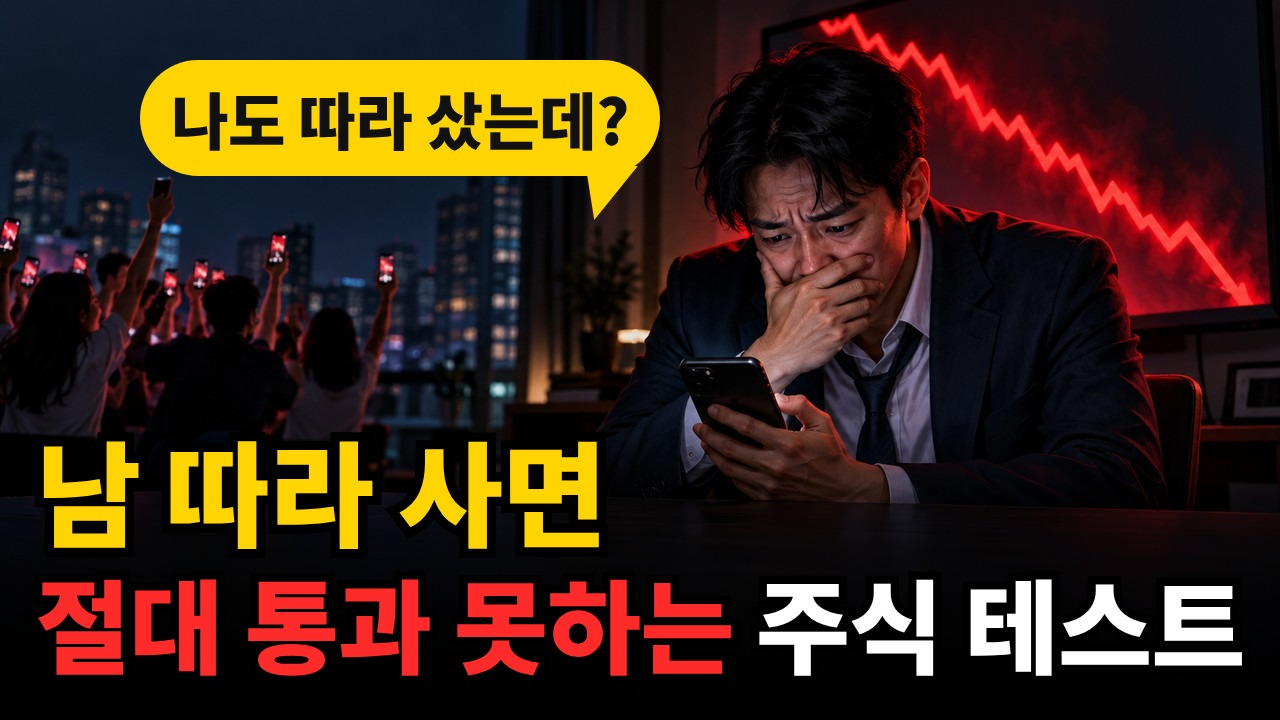
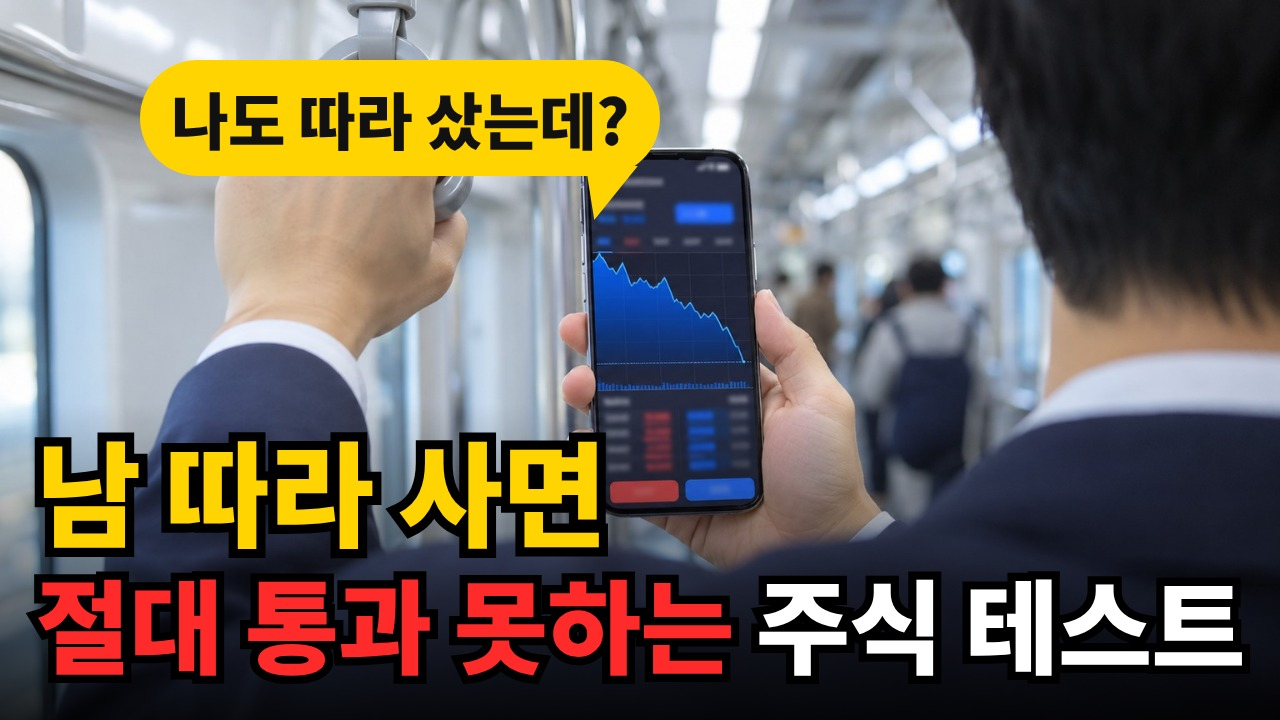
[stock] 1편 업로드 시트 — 설명란을 면세 편 꼴로 자세히 · 실험 썸네일 2·3 실사로 다시 그림
Claude-Session: https://claude.ai/code/session_01PYG2Mrbc8C4HDSnBDWyHf6

diff --git a/stock/source/ppalli-test-2026-11/shorts/upload.md b/stock/source/ppalli-test-2026-11/shorts/upload.md
@@ -1,6 +1,7 @@
 # ppalli-test-2026-11-shorts 업로드 시트 (주식 쇼츠)
 
-버전: v1.1 — 2026-11-05 — 완성 영상을 저장소에 둠 `stock/videos/ppalli-test-2026-11-shorts.mp4` (사용자 지시 "그냥 깃허브에 올려 1편 영상들") → 새 세션은 다시 렌더 없이 `python3 tools/youtube_upload.py stock ppalli-test-2026-11-shorts --video stock/videos/ppalli-test-2026-11-shorts.mp4 --publish-at 2026-11-12T08:00:00Z`.
+버전: v1.2 — 2026-11-05 — 설명란을 면세 쇼츠 꼴로 자세히 ('이 생각' 풀이 · 롱폼 안내 · '99%' 강조 표현 안내 · AI 음성·그림 · 해시태그 2개 — 사용자 "영상 설명 좀 면세 영상 올릴 때 처럼 자세하게") · 고정 댓글 칸 더함.
+이전 v1.1 — 2026-11-05 — 완성 영상을 저장소에 둠 `stock/videos/ppalli-test-2026-11-shorts.mp4` (사용자 지시 "그냥 깃허브에 올려 1편 영상들") → 새 세션은 다시 렌더 없이 `python3 tools/youtube_upload.py stock ppalli-test-2026-11-shorts --video stock/videos/ppalli-test-2026-11-shorts.mp4 --publish-at 2026-11-12T08:00:00Z`.
 이전 v1.0 — 2026-11-04 — 새로 만듦 (사용자 지시 "1편은 각각 일주일 후로 자동 예약 걸어서 업로드 해") · 제목 = 사용자 쇼츠 제목 그대로 (`stock/topics/쇼츠안_2026-10-30.md` 1편 — 사용자 결정 2026-11-02 「1편 쇼츠는 이미 있는 내용으로」) · 설명란 = 짧은 설명 + 롱폼 안내 + 알려 드립니다 + 해시태그 2개 · 한국어만 (롱폼 시트와 같음).
 
 기준 파일: 쇼츠 대본 `ppalli-test-2026-11-shorts.txt` (11문장) · SRT `ppalli-test-2026-11-shorts.srt` (오디오에 맞춤) · 올릴 영상 = `stock/out/ppalli-test-2026-11-shorts/final_1080p.mp4` (이 클라우드 컨테이너에만 — git 에 넣지 않음, 장면 파일·오디오로 다시 만듦)
@@ -19,11 +20,12 @@
 ## 2. 설명란 (그대로 복사)
 
 ```
-주식으로 돈을 빨리 벌고 싶다는 생각이 어떻게 계좌를 무너뜨리는지 짧게 담았습니다.
-▶ 다섯 번의 갈림길에서 당신은 어떤 선택을 할지, 테스트 전체는 아래 '관련 동영상'에서 확인하세요 — 주식 투자 실패하는 사람들은 절대 통과 못하는 테스트
+'이 생각'은 바로, 주식으로 돈을 빨리 벌고 싶다는 생각입니다.
+수익이 나면 매수 금액을 점점 늘리고, 손실이 나면 빨리 되찾으려고 더 자주, 더 크게 사고팔게 됩니다. 그러다 큰 하락이 오면 더 살 돈도, 팔 여유도 남지 않습니다.
+▶ 김씨가 마주한 다섯 번의 갈림길에서 당신은 어떤 선택을 할지, 테스트 전체는 아래 '관련 동영상'에서 — 주식 투자 실패하는 사람들은 절대 통과 못하는 테스트
 
-■ 알려 드립니다
-과거 자료로 만든 연구·교육용 영상이며, 투자 권유가 아닙니다. 내레이션은 AI 음성입니다.
+※ 제목의 '99%'는 계산한 숫자가 아니라, 그만큼 손해 보기 쉽다는 강조 표현입니다.
+과거 자료로 만든 연구·교육용 영상이며, 투자 권유가 아닙니다. 내레이션은 AI 음성이고, 그림은 AI로 만든 연출입니다.
 #주식 #주식테스트
 ```
 
@@ -40,7 +42,13 @@
 주식, 주식 테스트, 주식 투자 습관, 미국 주식, 장기 투자, 주식 초보, 투자 실패, 주식 공부, 분산 투자, 리스크 관리
 ```
 
-## 5. 업로드 설정
+## 5. 고정 댓글 (공개 뒤 사용자가 달고 '고정' — 쇼츠 댓글 링크는 눌리지 않음)
+
+```
+당신의 '이 생각'은 몇 퍼센트인가요? 다섯 가지 선택 테스트는 본편에서 확인하세요 👉 「주식 투자 실패하는 사람들은 절대 통과 못하는 테스트」
+```
+
+## 6. 업로드 설정
 
 | 항목 | 값 |
 |---|---|
@@ -51,8 +59,8 @@
 | 동영상 언어 | 한국어 |
 | 시청자층 | 아동용 아님 |
 | 유료 프로모션 | 없음 |
-| 변경되거나 합성된 콘텐츠 | **예** (내레이션이 AI 음성) |
+| 변경되거나 합성된 콘텐츠 | **예** (내레이션이 AI 음성, 그림이 AI 연출) |
 
-## 6. 결과 (업로드 후)
+## 7. 결과 (업로드 후)
 
 - (아직 없음)

diff --git a/stock/source/ppalli-test-2026-11/upload.md b/stock/source/ppalli-test-2026-11/upload.md
@@ -1,6 +1,7 @@
 # ppalli-test-2026-11 업로드 시트
 
-버전: v1.10 — 2026-11-05 — 완성 영상을 저장소에 둠 `stock/videos/ppalli-test-2026-11.mp4` (사용자 지시 "그냥 깃허브에 올려 1편 영상들") → 새 세션은 다시 렌더 없이 `python3 tools/youtube_upload.py stock ppalli-test-2026-11 --video stock/videos/ppalli-test-2026-11.mp4 --publish-at 2026-11-12T08:00:00Z`.
+버전: v1.11 — 2026-11-05 — 설명란 끝을 면세 편 꼴로: '그림은 AI로 만든 연출' + 해시태그 2개 (사용자 "영상 설명 좀 면세 영상 올릴 때 처럼 자세하게") · 실험 썸네일 2·3 을 실사 TH-PHOTO2 로 다시 그림(옛 TH-ART 얼굴 그림이 남아 있었음).
+이전 v1.10 — 2026-11-05 — 완성 영상을 저장소에 둠 `stock/videos/ppalli-test-2026-11.mp4` (사용자 지시 "그냥 깃허브에 올려 1편 영상들") → 새 세션은 다시 렌더 없이 `python3 tools/youtube_upload.py stock ppalli-test-2026-11 --video stock/videos/ppalli-test-2026-11.mp4 --publish-at 2026-11-12T08:00:00Z`.
 이전 v1.9 — 2026-11-04 — 챕터 시각 채움 (대본 v17 음성) · 예약 공개 2026-11-12T08:00:00Z (한국 11월 12일 17시 — 사용자 지시 "1편은 각각 일주일 후로 자동 예약 걸어서 업로드 해", 짝 쇼츠와 같은 시각) · 썸네일 줄 = 실사 TH-PHOTO2.
 이전 v1.8 — 2026-11-04 — 대본: 선택마다 질문 뒤 '선택해 보세요.' · '3, 2, 1.' (사용자 지시 "매수 하시겠습니까? 선택 항목 다음에 선택해보세요. 멘트 추가하고 3, 2, 1 카운트 후에 정답 얘기하도록수정해 다른 대본도 그렇게 하고") — 문장 10개 늘어 챕터 번호 다시.
 이전 v1.7 — 2026-11-04 — 새 음성(7:11.9, tts v1.17)으로 챕터 시각 채움 · 챕터 제목 2개를 정답이 안 보이게 ('현금 남기기' → '얼마를 넣을까' · '손절' → '실적이 무너진 날' — 규칙 '챕터 제목에 정답을 쓰지 않는다').
@@ -60,7 +61,9 @@
 ■ 알려 드립니다
 이 테스트는 공식 시험이 아니라, 실제 과거 데이터로 직접 만든 것입니다. 모두 과거 자료이고, 앞으로도 꼭 같다는 보장은 없습니다.
 김씨는 실제 숫자로 만든 가상의 인물입니다. 이 영상은 투자 권유가 아니며, 특정 종목을 사거나 팔라는 뜻이 아닙니다.
-내레이션은 AI 음성입니다.
+내레이션은 AI 음성이고, 그림은 AI로 만든 연출입니다.
+
+#주식테스트 #미국주식
 ```
 
 ## 3. 챕터 다시 계산하기 (문장 번호 기준 — 오디오·SRT 가 생긴 뒤)
@@ -95,7 +98,7 @@ python tools/srt_tool.py upload stock/source/ppalli-test-2026-11/ppalli-test-202
 | 동영상 언어 | 한국어 |
 | 시청자층 | 아동용 아님 |
 | 유료 프로모션 | 없음 |
-| 변경되거나 합성된 콘텐츠 | **예** (내레이션이 AI 음성) |
+| 변경되거나 합성된 콘텐츠 | **예** (내레이션이 AI 음성, 그림이 AI 연출) |
 
 ## 7. 점검
 
